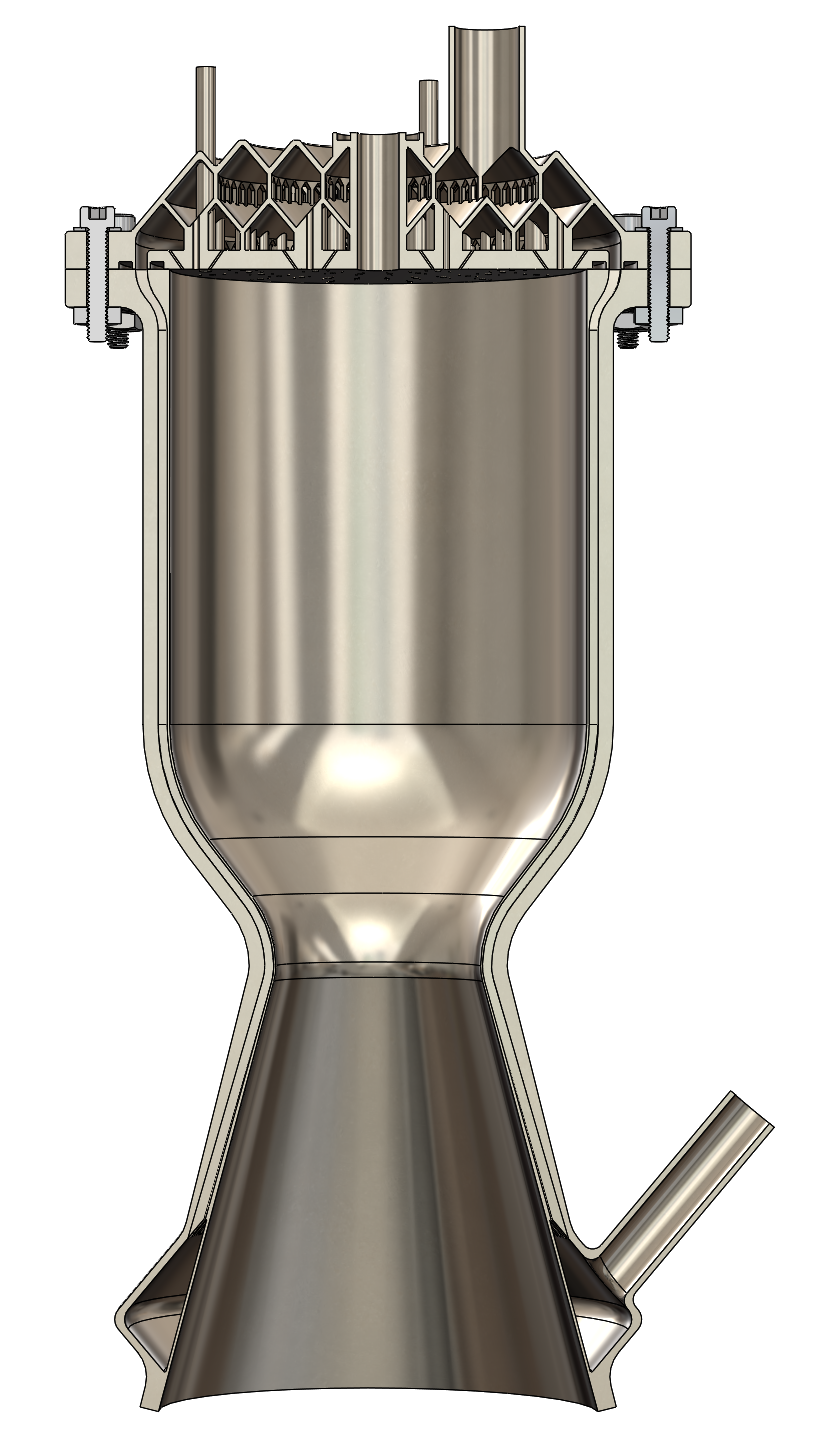
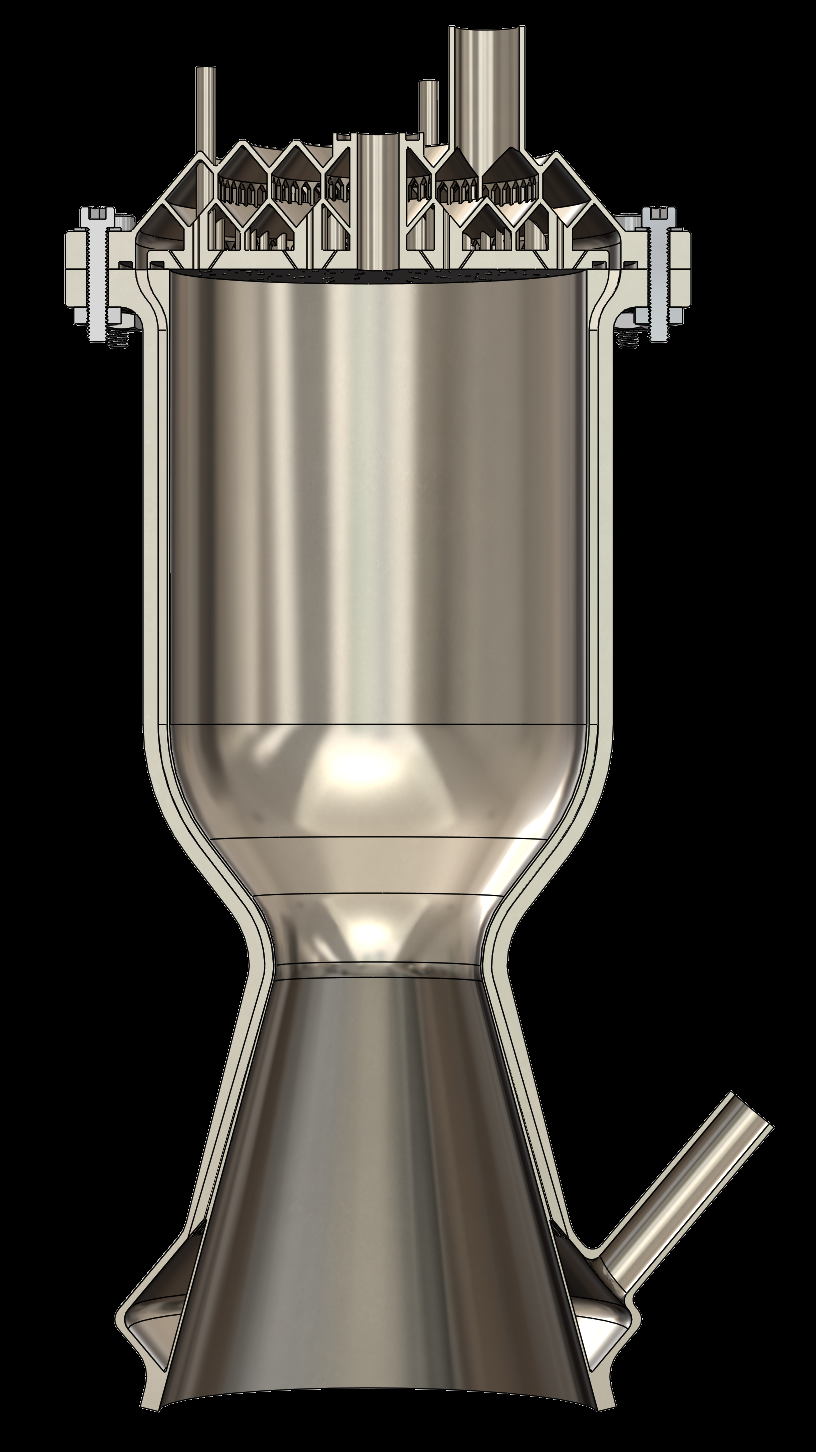
adjusted spacing and content on home page

diff --git a/index.html b/index.html
@@ -60,10 +60,10 @@
                     <p style="margin-bottom: 3%;">Our mission is to improve the efficiency of in-space small rocket engines by leveraging the additive manufacturing process to reduce mass and increase the lifespan of components.</p>
                 </div>
                 <div data-aos="fade" data-aos-duration="1200" data-aos-delay="200">
-                    <div class="col-lg-5"><img class="rounded img-fluid" src="/teamrocket/assets/img/engine/assembly.png" style="width: 85%;"></div>
-                    <div class="col-lg-6"><img class="rounded img-fluid" src="/teamrocket/assets/img/engine/cross-section.png" style="width: 85%;"></div>
-                    <h2 style="color: rgb(28, 46, 66)">Introducing Space Buddy</h2>
-                    <div class="getting-started-info">
+                    <div class="col-lg-5"><img class="rounded img-fluid" src="/teamrocket/assets/img/engine/assembly.png" style="height: 400px;"></div>
+                    <div class="col-lg-6"><img class="rounded img-fluid" src="/teamrocket/assets/img/engine/cross-section.png" style="height: 400px;"></div>
+                    <h2 style="color: rgb(28, 46, 66); text-align: center;">Introducing Space Buddy</h2>
+                    <div class="getting-started-info" style="text-align: center;">
                         <p>Named for its small size and large goals, Space Buddy is our novel 3D-printed regeneratively cooled rocket designed by four mechanical engineering undergraduates for their senior project.</p>
                     </div>
                 </div>
